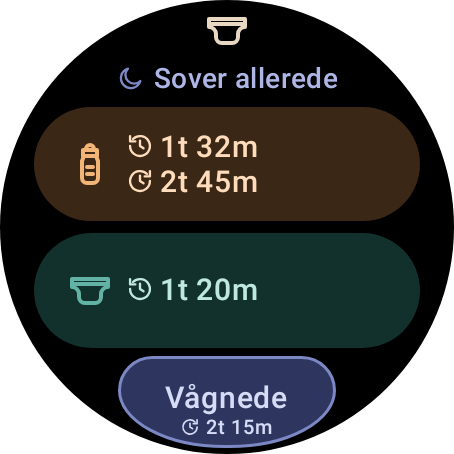
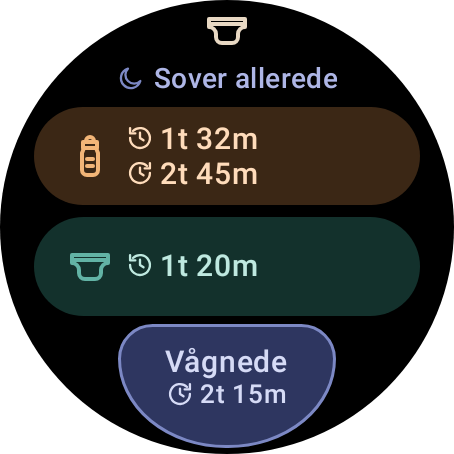
Tile: a taller sleep toggle
The Tile's sleep toggle was the stock textEdgeButton, whose single fixed
46 dp height squeezed the expected next sleep under "Start sleep" into the
smallest type. It is now built by hand with the stock EdgeButton's shape,
width, padding and "EB" tag (so primaryLayout still keeps it on the bottom
edge), 62 dp tall (56 below 225 dp). Feed and Diaper share the remaining
height, so they are a little shorter, and "⟳ 50m" moves up to labelSmall
with a 14 dp icon.

Like the stock EdgeButton's label, its two lines keep their size at any
font scale; a larger font would cut "Start sleep" at the button's width.

DESIGN_SPEC §3.6 and the screenshots are updated.

Claude-Session: https://claude.ai/code/session_01KD7sVjhKJxFuA326iQC42n

diff --git a/wear/src/main/kotlin/com/ffmathy/pooparazzi/wear/tile/TileLayout.kt b/wear/src/main/kotlin/com/ffmathy/pooparazzi/wear/tile/TileLayout.kt
@@ -15,10 +15,14 @@ import androidx.wear.protolayout.LayoutElementBuilders.HORIZONTAL_ALIGN_START
 import androidx.wear.protolayout.LayoutElementBuilders.LayoutElement
 import androidx.wear.protolayout.LayoutElementBuilders.TEXT_ALIGN_CENTER
 import androidx.wear.protolayout.LayoutElementBuilders.TEXT_ALIGN_START
+import androidx.wear.protolayout.LayoutElementBuilders.VERTICAL_ALIGN_BOTTOM
 import androidx.wear.protolayout.LayoutElementBuilders.VERTICAL_ALIGN_CENTER
+import androidx.wear.protolayout.LayoutElementBuilders.VERTICAL_ALIGN_TOP
 import androidx.wear.protolayout.ModifiersBuilders.Clickable
+import androidx.wear.protolayout.ModifiersBuilders.SEMANTICS_ROLE_BUTTON
 import androidx.wear.protolayout.layout.androidImageResource
 import androidx.wear.protolayout.layout.basicImage
+import androidx.wear.protolayout.layout.box
 import androidx.wear.protolayout.layout.column
 import androidx.wear.protolayout.layout.imageResource
 import androidx.wear.protolayout.layout.row
@@ -32,14 +36,19 @@ import androidx.wear.protolayout.material3.button
 import androidx.wear.protolayout.material3.icon
 import androidx.wear.protolayout.material3.primaryLayout
 import androidx.wear.protolayout.material3.text
-import androidx.wear.protolayout.material3.textEdgeButton
 import androidx.wear.protolayout.modifiers.LayoutModifier
+import androidx.wear.protolayout.modifiers.background
 import androidx.wear.protolayout.modifiers.border
 import androidx.wear.protolayout.modifiers.clearSemantics
 import androidx.wear.protolayout.modifiers.clickable
+import androidx.wear.protolayout.modifiers.clip
+import androidx.wear.protolayout.modifiers.clipBottomLeft
+import androidx.wear.protolayout.modifiers.clipBottomRight
 import androidx.wear.protolayout.modifiers.contentDescription
 import androidx.wear.protolayout.modifiers.loadAction
 import androidx.wear.protolayout.modifiers.padding
+import androidx.wear.protolayout.modifiers.semanticsRole
+import androidx.wear.protolayout.modifiers.tag
 import androidx.wear.protolayout.types.LayoutColor
 import androidx.wear.protolayout.types.LayoutString
 import androidx.wear.protolayout.types.argb
@@ -435,26 +444,57 @@ private class TileContent(
         val modifier = LayoutModifier.contentDescription(description)
         // The tap says what it showed: "Woke up" for this sleep, or "Start sleep" (see TileActions).
         val clickId = state.runningSleep?.let { TileAction.SLEEP_END.clickId(token, it.id) } ?: TileAction.SLEEP_START.clickId(token)
-        textEdgeButton(
+        // Fixed-size type, as the stock EdgeButton's: a larger font would cut "Start sleep" at the button's width.
+        val word = plainText(label.layoutString, Typography.LABEL_MEDIUM, sleep.onContainer.layout, scalable = false)
+        val content = if (next == null) {
+            word
+        } else {
+            column(
+                word,
+                iconLine(XDrawables.upcoming, estimate(next, TEXT_ALIGN_CENTER), Typography.LABEL_SMALL, sleep.onContainer, LINE_ICON, scalable = false),
+                horizontalAlignment = HORIZONTAL_ALIGN_CENTER,
+            )
+        }
+        tallEdgeButton(
             onClick = Clickable.Builder().setId(clickId).setOnClick(loadAction()).build(),
             modifier = if (asleep) modifier.border(LIT_BORDER, sleep.strong.layout) else modifier,
-            colors = ButtonColors(
-                containerColor = (if (asleep) sleep.containerLit else sleep.container).layout,
-                labelColor = sleep.onContainer.layout,
-            ),
-            labelContent = {
-                val word = plainText(label.layoutString, Typography.LABEL_MEDIUM, sleep.onContainer.layout)
-                if (next == null) {
-                    word
-                } else {
-                    // The smallest type: the EdgeButton's top is narrow ("⟳ 50m" must fit its width).
-                    column(
-                        word,
-                        iconLine(XDrawables.upcoming, estimate(next, TEXT_ALIGN_CENTER), Typography.BODY_EXTRA_SMALL, sleep.onContainer, EDGE_LINE_ICON),
-                        horizontalAlignment = HORIZONTAL_ALIGN_CENTER,
-                    )
-                }
-            },
+            container = (if (asleep) sleep.containerLit else sleep.container).layout,
+            content = content,
+        )
+    }
+
+    /**
+     * The stock EdgeButton (`textEdgeButton`) with room for two lines: its shape, width, top padding and "EB" tag (so
+     * `primaryLayout` hugs it to the screen's bottom edge), but [EDGE_HEIGHT] tall instead of 46 dp, so the expected next
+     * sleep fits under the word at a readable size. The rows above are shorter for it.
+     */
+    private fun MaterialScope.tallEdgeButton(onClick: Clickable, modifier: LayoutModifier, container: LayoutColor, content: LayoutElement): LayoutElement {
+        val screen = deviceConfiguration.screenWidthDp.toFloat()
+        val marginPercent = if (screen >= SMALL_WATCH_DP) 26f else 24f
+        val width = screen * (100f - 2 * marginPercent) / 100f
+        val height = if (screen >= SMALL_WATCH_DP) EDGE_HEIGHT else EDGE_HEIGHT_SMALL
+        val button = box(
+            content,
+            modifier = modifier
+                .semanticsRole(SEMANTICS_ROLE_BUTTON)
+                .clickable(onClick)
+                .background(container)
+                .clip(EDGE_TOP_CORNER)
+                .clipBottomLeft(width / 2, height - EDGE_TOP_CORNER)
+                .clipBottomRight(width / 2, height - EDGE_TOP_CORNER)
+                .padding(start = EDGE_SIDE_PADDING, top = EDGE_TOP_PADDING, end = EDGE_SIDE_PADDING, bottom = 0f),
+            width = dp(width),
+            height = dp(height),
+            horizontalAlignment = HORIZONTAL_ALIGN_CENTER,
+            verticalAlignment = VERTICAL_ALIGN_TOP,
+        )
+        return box(
+            button,
+            modifier = LayoutModifier.tag(EDGE_BUTTON_TAG).padding(start = 0f, top = 0f, end = 0f, bottom = EDGE_BOTTOM_MARGIN),
+            width = dp(screen),
+            height = dp(height + EDGE_BOTTOM_MARGIN),
+            horizontalAlignment = HORIZONTAL_ALIGN_CENTER,
+            verticalAlignment = VERTICAL_ALIGN_BOTTOM,
         )
     }
 
@@ -483,8 +523,9 @@ private class TileContent(
         color: Color,
         iconSize: Float,
         alignment: Int = TEXT_ALIGN_CENTER,
+        scalable: Boolean = true,
     ): LayoutElement {
-        val line = plainText(value, typography, color.layout, alignment)
+        val line = plainText(value, typography, color.layout, alignment, scalable = scalable)
         return if (icon == null) line else row(glyph(icon, color, iconSize), spacer(width = dp(3f)), line, verticalAlignment = VERTICAL_ALIGN_CENTER)
     }
 
@@ -494,11 +535,14 @@ private class TileContent(
         color: LayoutColor,
         alignment: Int = TEXT_ALIGN_CENTER,
         bold: Boolean = false,
+        /** False keeps [typography] at its size whatever the font scale (as the stock EdgeButton's label). */
+        scalable: Boolean = true,
     ): LayoutElement = text(
         value,
         typography = typography,
         color = color,
         alignment = alignment,
+        scalable = scalable,
         settings = if (bold) listOf(FontSetting.weight(BOLD)) else emptyList(),
         modifier = LayoutModifier.clearSemantics(),
     )
@@ -520,7 +564,19 @@ private class TileContent(
 
         /** The `history` / `upcoming` icon before a row's labelMedium line, and before the EdgeButton's smallest line. */
         const val LINE_ICON = 14f
-        const val EDGE_LINE_ICON = 10f
+
+        /** The sleep toggle's height (the stock EdgeButton's is 46 dp), and below 225 dp. */
+        const val EDGE_HEIGHT = 62f
+        const val EDGE_HEIGHT_SMALL = 56f
+
+        /** The stock EdgeButton's shape and padding (EdgeButtonDefaults). */
+        const val EDGE_TOP_CORNER = 17f
+        const val EDGE_TOP_PADDING = 10f
+        const val EDGE_SIDE_PADDING = 8f
+        const val EDGE_BOTTOM_MARGIN = 3f
+
+        /** The tag `primaryLayout` knows the stock EdgeButton by (EdgeButtonDefaults.METADATA_TAG, internal). */
+        const val EDGE_BUTTON_TAG = "EB"
 
         /** The largest font scale at which a row's estimate still fits as its third line. */
         const val MAX_ESTIMATE_FONT_SCALE = 1.15f

diff --git a/docs/design/DESIGN_SPEC.md b/docs/design/DESIGN_SPEC.md
@@ -604,7 +604,7 @@ Fixed neutral chrome (`allowDynamicTheme = false`), container fills only (night-
 | Title (titleSlot) | y 37–53, titleSmall `#E8D8C3`, centred: the baby's name; unnamed, **"Pee 48m ago"** (last diaper). The same title as Main's (§3.5.1) |
 | Row A | Feed button 184 × 52, r 26, `#3B2715`: `feed` 24 `#F2B577` at 16 from the start; as on Main no label (the content description names it), `history` 14 + "2h 10m" over `upcoming` 14 + "55m" (the expected next feed, kept current by a dynamic expression) labelMedium 15 sp `#FFDCBB`. A just-logged confirmation below 225 dp is labelSmall. Opens the app's Feed type screen |
 | Row B | Diaper button 184 × 52, r 26, DIAPER container `#13312C`: `diaper` 24 DIAPER strong at 16 from the start; `history` "48m" (or "No diapers yet", no icon) over `upcoming` "3h 10m" (the expected next poop) labelMedium `#BFE9E0`. Opens the app's Diaper screen, like Main's Diaper button; diapers are never logged from the tile |
-| EdgeButton | drawn 46 tall (y 179–225), 48 dp hit box, 9 dp below Row B; fill `#222844`, "Start sleep" labelMedium 15 sp `#D6DBF6` over the expected next sleep `upcoming` 10 + "50m" (asleep: "Woke up" over the expected wake-up) |
+| EdgeButton | the stock EdgeButton's shape, width and "EB" tag (so `primaryLayout` keeps it on the bottom edge), but drawn **62** tall (56 below 225 dp) instead of 46, built by hand since `textEdgeButton` has one fixed height; Row A and Row B are shorter for it. Fill `#222844`, "Start sleep" labelMedium 15 sp `#D6DBF6` over the expected next sleep `upcoming` 14 + "50m" labelSmall (asleep: "Woke up" over the expected wake-up). Its two lines keep their size at any font scale, as the stock EdgeButton's label does, so "Start sleep" is never cut |
 
 | State | Title | Other changes |
 |---|---|---|
